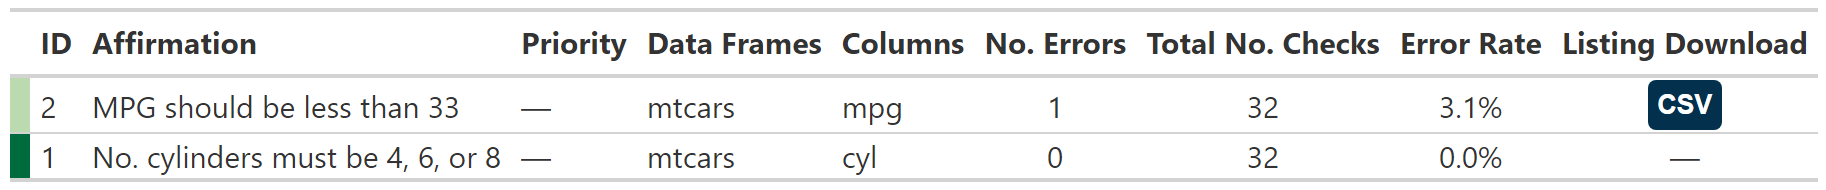
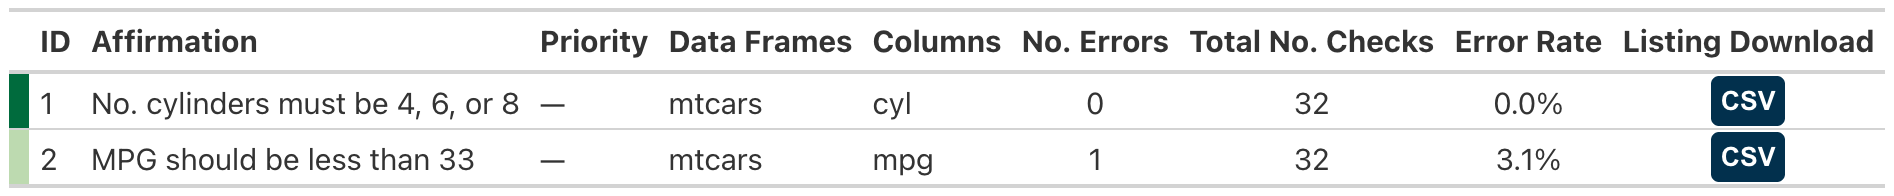
add details to getting started docs

diff --git a/README.md b/README.md
@@ -30,7 +30,7 @@ variables continue to be accurate as data is updated.
     when our underlying assumptions are not true and will require us to
     address the issue before continuing.
 
-The [{pointblank}](https://rstudio.github.io/pointblank/) is
+The [{pointblank}](https://rich-iannone.github.io/pointblank/) is
 another package that performs data validations. {pointblank} is far more
 comprehensive than {affirm}, and {affirm} utilizes many of the ideas and
 reporting introduced in {pointblank} with defaults and reports tailored
@@ -58,11 +58,15 @@ Load the package and initialize a new affirmation session with
 
 ``` r
 library(affirm)
+library(dplyr)
 #> 
-#> Attaching package: 'affirm'
-#> The following object is masked from 'package:stats':
+#> Attaching package: 'dplyr'
+#> The following objects are masked from 'package:stats':
 #> 
-#>     filter
+#>     filter, lag
+#> The following objects are masked from 'package:base':
+#> 
+#>     intersect, setdiff, setequal, union
 
 # initiate an affirmation session
 affirm_init(replace = TRUE)
@@ -105,6 +109,47 @@ affirm_report_gt()
 ```
 
 ![](man/figures/README-gt-report.png)
+
+### Expandable Details View
+
+Use `details = TRUE` to create a more compact report with expandable
+sections showing validation failures inline:
+
+``` r
+affirm_init(replace = TRUE)
+#> ✔ We're ready to make data affirmations...
+
+as_tibble(mtcars) |>
+  affirm_true(
+    label = "No. cylinders must be 4, 6, or 8",
+    condition = cyl %in% c(4, 6, 8),
+    id = 1,
+    data_frames = "mtcars"
+  ) |>
+  affirm_true(
+    label = "MPG should be less than 33",
+    condition = mpg < 33,
+    id = 2,
+    data_frames = "mtcars"
+  )
+#> • No. cylinders must be 4, 6, or 8
+#>   0 issues identified.
+#> • MPG should be less than 33
+#>   1 issue identified.
+#> # A tibble: 32 × 11
+#>     mpg   cyl  disp    hp  drat    wt  qsec    vs    am  gear  carb
+#>   <dbl> <dbl> <dbl> <dbl> <dbl> <dbl> <dbl> <dbl> <dbl> <dbl> <dbl>
+#> 1  21       6   160   110  3.9   2.62  16.5     0     1     4     4
+#> 2  21       6   160   110  3.9   2.88  17.0     0     1     4     4
+#> 3  22.8     4   108    93  3.85  2.32  18.6     1     1     4     1
+#> # ℹ 29 more rows
+```
+
+``` r
+affirm_report_gt(details = TRUE)
+```
+
+![](man/figures/README-gt-report-details.png)
 
 ### About the hex logo
 
